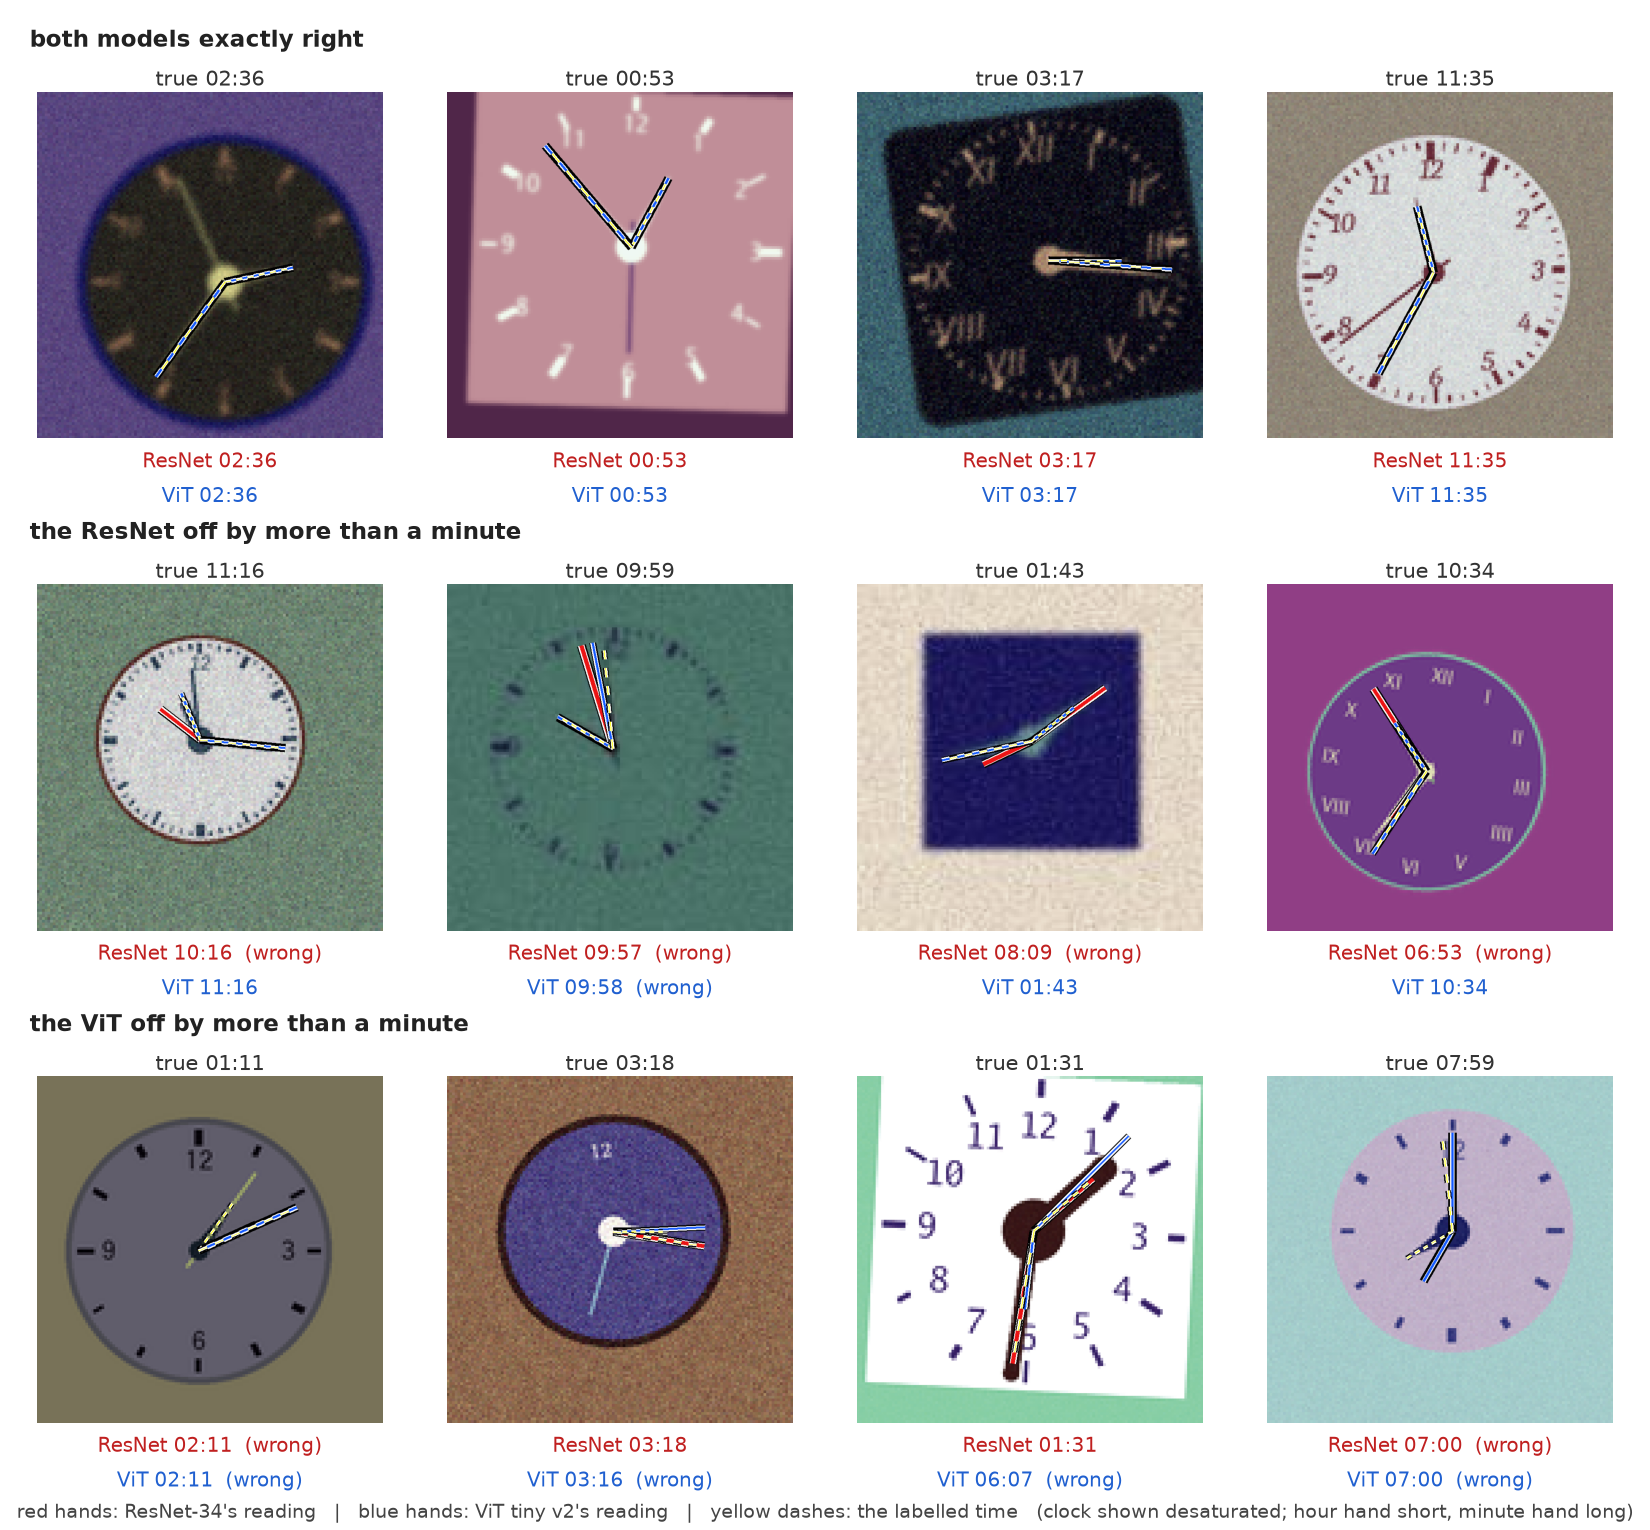
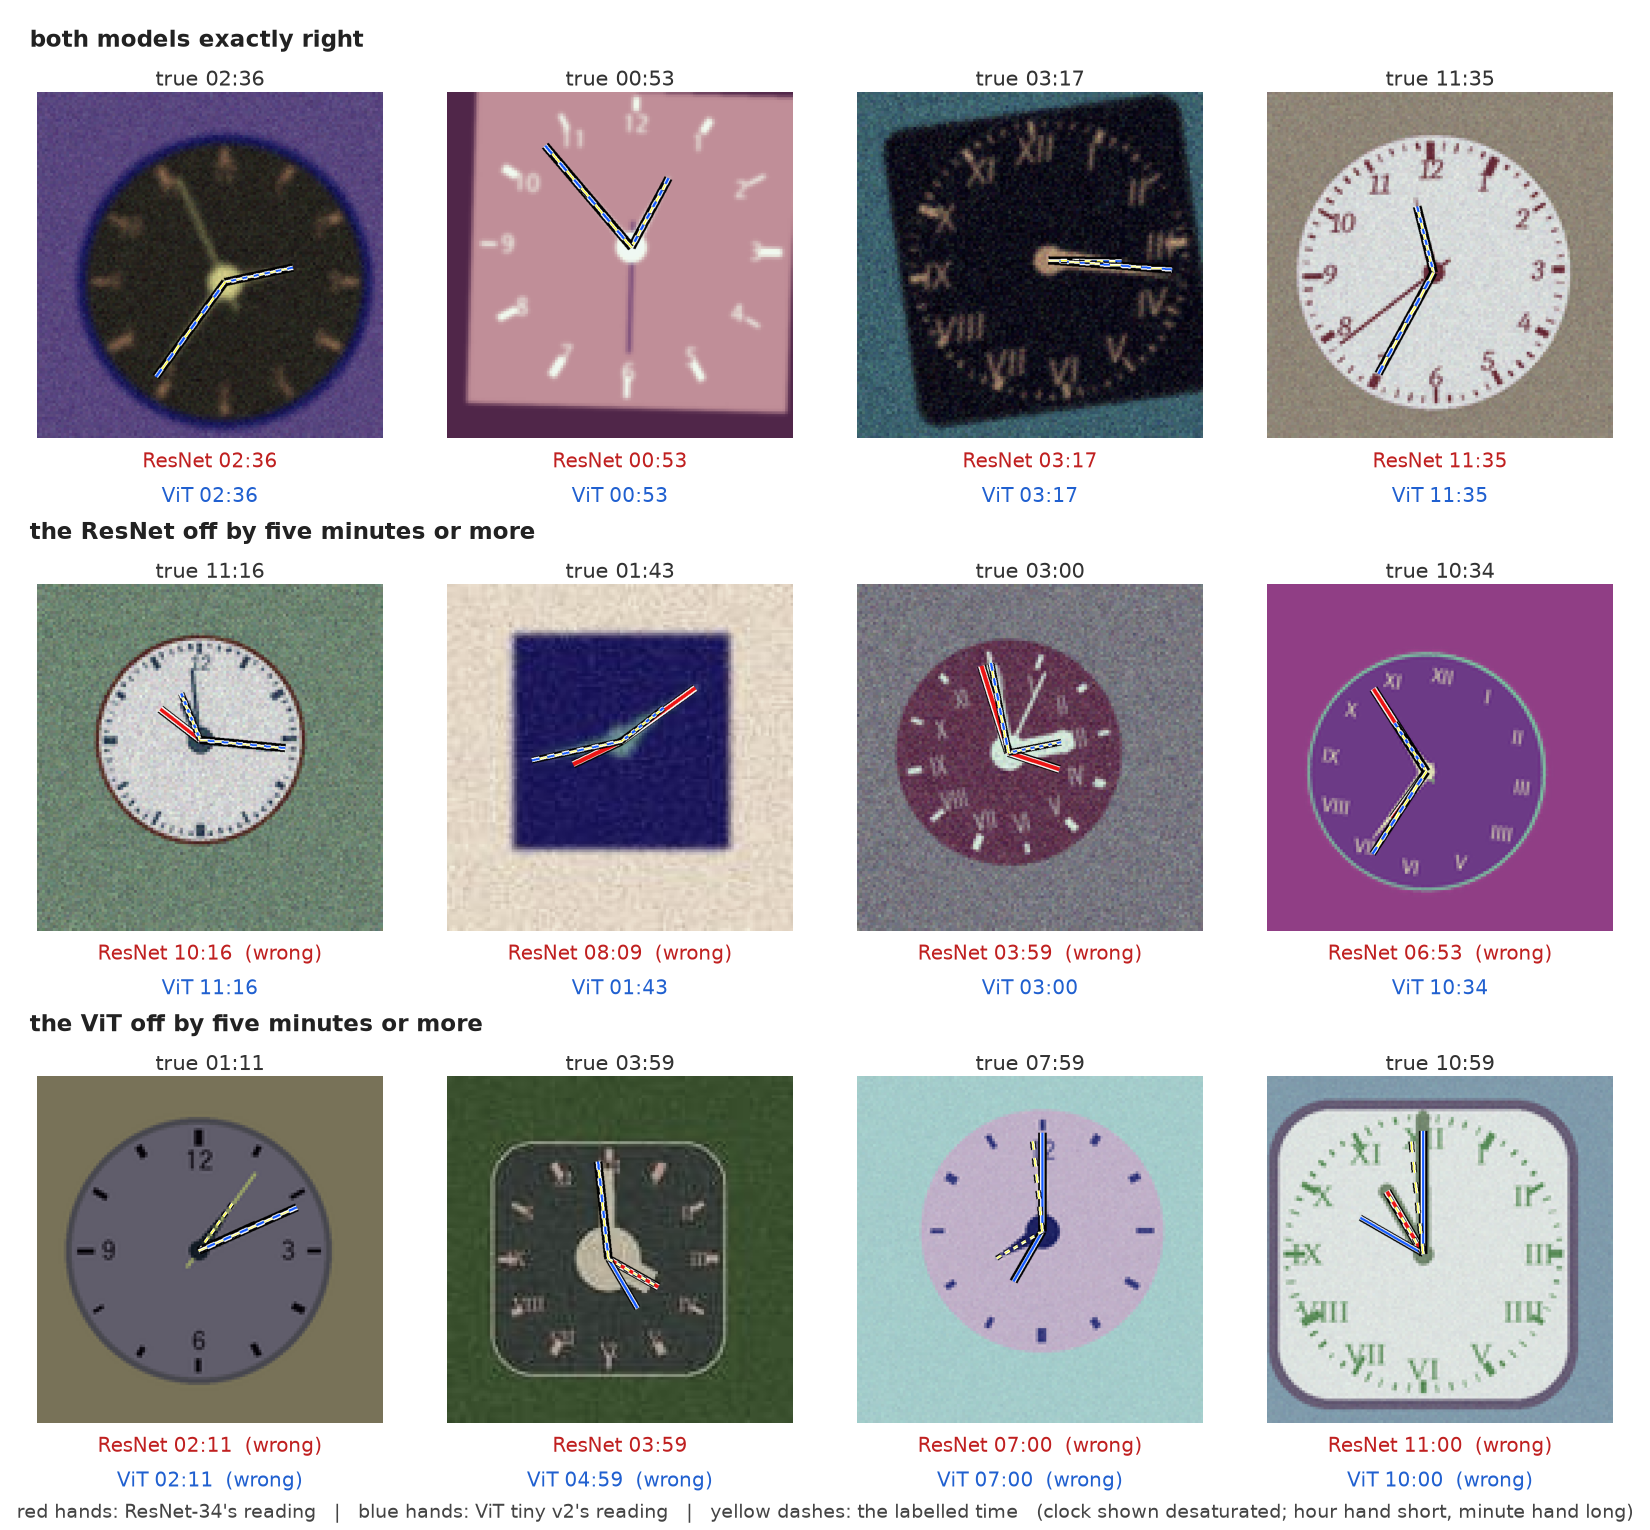
Part 3: wrong panels show misses of five minutes or more

Changed region(s): [[0.2473, 0.6758, 0.9891, 0.9523], [0.1545, 0.3379, 0.7418, 0.6451], [0.1236, 0.6451, 0.2782, 0.6758]]

diff --git a/_posts/2026-09-15-clocks-part-3-evaluation.md b/_posts/2026-09-15-clocks-part-3-evaluation.md
@@ -52,18 +52,19 @@ time in ten, and nearly all of those are within one minute. Counting the
 hour and minute together as one time on a 12-hour dial, so that 3:59 read
 as 4:00 is one minute off rather than an hour and a minute:
 
-| held-out fonts, 10,000 clocks | exactly right | one minute off | more than a minute off |
-|---|---|---|---|
-| cnn_r34 | 8,938 | 1,035 | 27 |
-| vit_tiny_v2 (86 ep) | 8,986 | 1,002 | 12 |
+| held-out fonts, 10,000 clocks | exactly right | one minute off | two to four minutes off | five minutes or more off |
+|---|---|---|---|---|
+| cnn_r34 | 8,938 | 1,035 | 10 | 17 |
+| vit_tiny_v2 (86 ep) | 8,986 | 1,002 | 3 | 9 |
 
 That last column is the one to keep in mind. A one-minute miss on a hand
 that is most of the way to the next mark is a call a person would make
-too, and Part 3 shows below that it's the renderer's doing. So the panels
+too, and this post shows below that it's the renderer's doing; a two- or
+three-minute miss on a blurred face is not much different. So the panels
 in this post that show the models getting it *wrong* show only the last
-column: the 27 and the 12 clocks in ten thousand where a model was off by
-more than a minute. Those are the real mistakes, and they're rare enough
-to look at one by one.
+column: the 17 and the 9 clocks in ten thousand where a model was off by
+five minutes or more. Those are the unmistakable mistakes, and they're
+rare enough to look at one by one.
 
 ## What the predictions look like
 
@@ -74,7 +75,7 @@ white halo so it shows on any background, and the labelled time as thin
 yellow dashes on top. The clock itself is shown at a third of its colour
 saturation so the hands stand out from it. The first row is clocks both
 models read exactly; the second and third are clocks where the ResNet, or
-the ViT, was off by more than a minute. Where all three coincide, the model
+the ViT, was off by five minutes or more. Where all three coincide, the model
 read the clock. The clocks are from the held-out set, so every typeface
 here is one the models never saw. The geometry for the overlay comes from
 re-rendering each test image from its seed, which reproduces it pixel for
@@ -85,7 +86,7 @@ the models saw, only paler ([Figure 3.1](#fig-3-1)).
 
 ![Predicted hands from both models, ResNet in red and ViT in blue, drawn over twelve held-out clocks in three rows: both right, one wrong, both wrong](/assets/clocks/overlay_heldout.png){: .no-invert}
 
-**Figure 3.1.** Predicted hands from both models, ResNet in red and ViT in blue, drawn over twelve held-out clocks: a row where both are exactly right, a row where the ResNet is off by more than a minute, a row where the ViT is.
+**Figure 3.1.** Predicted hands from both models, ResNet in red and ViT in blue, drawn over twelve held-out clocks: a row where both are exactly right, a row where the ResNet is off by five minutes or more, a row where the ViT is.
 {: .figcap #fig-3-1}
 
 In the top row the three sets of hands are on top of each other. In the
@@ -96,33 +97,33 @@ next to a numeral and the model picks the wrong side. The other is the
 hands swapped: 1:43 read as 8:09, 10:34 read as 6:53, 1:31 read as 6:07,
 on faces where the two hands are nearly the same length. Neither kind is
 a resolution problem. Both are the kind of mistake a person makes at a
-glance, and both are rare: those rows are drawn from 27 clocks in ten
-thousand for the ResNet and 12 for the ViT.
+glance, and both are rare: those rows are drawn from 17 clocks in ten
+thousand for the ResNet and 9 for the ViT.
 
 Another way to look at the same thing: take what each model answered and
 draw it as a clean clock, next to the clock it was given. Red hands are
 the ResNet's reading, blue hands the ViT's. If the model read the clock,
 the drawn clock shows the same time as the unseen one. The last four rows
-are real misses: the drawn clock shows an hour hand on the wrong numeral,
-or the two hands the wrong way round ([Figure 3.2](#fig-3-2)).
+are misses of five minutes or more: the drawn clock shows an hour hand on
+the wrong numeral, or the two hands the wrong way round ([Figure 3.2](#fig-3-2)).
 
 ![Six held-out clocks, each beside a clean clock drawn from the ResNet's reading in red and one from the ViT's reading in blue](/assets/clocks/readback_heldout.png){: .no-invert}
 
-**Figure 3.2.** Six held-out clocks, each beside a clean clock drawn from the ResNet's reading in red and one from the ViT's reading in blue. Rows 1 and 2 both right; rows 3 and 4 the ResNet off by more than a minute; rows 5 and 6 the ViT.
+**Figure 3.2.** Six held-out clocks, each beside a clean clock drawn from the ResNet's reading in red and one from the ViT's reading in blue. Rows 1 and 2 both right; rows 3 and 4 the ResNet off by five minutes or more; rows 5 and 6 the ViT.
 {: .figcap #fig-3-2}
 
-Eight more clocks each model read exactly, and eight of its misses of more
-than a minute, from the held-out set. The wrong readings are in red ([Figures 3.3](#fig-3-3)
+Eight more clocks each model read exactly, and eight of its misses of five
+minutes or more, from the held-out set. The wrong readings are in red ([Figures 3.3](#fig-3-3)
 and [3.4](#fig-3-4)).
 
 ![ResNet-34 predictions on held-out fonts: eight right, eight wrong](/assets/clocks/preds_cnn_r34.png){: .no-invert}
 
-**Figure 3.3.** ResNet-34 predictions on held-out fonts: eight read exactly, and eight of its misses of more than a minute.
+**Figure 3.3.** ResNet-34 predictions on held-out fonts: eight read exactly, and eight of its misses of five minutes or more.
 {: .figcap #fig-3-3}
 
 ![ViT tiny v2 predictions on held-out fonts: eight right, eight wrong](/assets/clocks/preds_vit_tiny_v2.png){: .no-invert}
 
-**Figure 3.4.** ViT tiny v2 predictions on held-out fonts: eight read exactly, and eight of its misses of more than a minute.
+**Figure 3.4.** ViT tiny v2 predictions on held-out fonts: eight read exactly, and eight of its misses of five minutes or more.
 {: .figcap #fig-3-4}
 
 And the same on the test set rendered with training-pool fonts, which is
@@ -130,12 +131,12 @@ the distribution the models were trained on ([Figures 3.5](#fig-3-5) and [3.6](#
 
 ![ResNet-34 predictions on the seen-font test set: eight right, eight wrong](/assets/clocks/preds_test_cnn_r34.png){: .no-invert}
 
-**Figure 3.5.** ResNet-34 predictions on the seen-font test set: eight read exactly, and eight of its misses of more than a minute.
+**Figure 3.5.** ResNet-34 predictions on the seen-font test set: eight read exactly, and eight of its misses of five minutes or more.
 {: .figcap #fig-3-5}
 
 ![ViT tiny v2 predictions on the seen-font test set: eight right, eight wrong](/assets/clocks/preds_test_vit_tiny_v2.png){: .no-invert}
 
-**Figure 3.6.** ViT tiny v2 predictions on the seen-font test set: eight read exactly, and eight of its misses of more than a minute.
+**Figure 3.6.** ViT tiny v2 predictions on the seen-font test set: eight read exactly, and eight of its misses of five minutes or more.
 {: .figcap #fig-3-6}
 
 Look at the wrong rows and notice what is *not* there: nothing has been
@@ -288,16 +289,16 @@ ViT alone on 5.9%. Either one right: 95.3% ([Figure 3.11](#fig-3-11)).
 
 ![Held-out clocks where both models are right, only the ResNet is right, only the ViT is right, and both are wrong](/assets/clocks/compare_heldout.png){: .no-invert}
 
-**Figure 3.11.** Held-out clocks where both models are exactly right, where only the ResNet is off by more than a minute, where only the ViT is, and the three where both are.
+**Figure 3.11.** Held-out clocks where both models are exactly right, where only the ResNet is off by five minutes or more, where only the ViT is, and the three where both are.
 {: .figcap #fig-3-11}
 
 Those percentages count one-minute misses as wrong, and on that count the
 two models miss *different* clocks 6% of the time each, which on a task
 where the labels are ambiguous a quarter of the time says their errors
 are mostly coin flips at the boundary rather than systematic blind spots.
-The figure uses the stricter rule, more than a minute off, and there the
-numbers are small: 24 clocks where only the ResNet was off by more than a
-minute, 9 where only the ViT was, and 3 where both were. The three shared
+The figure uses the stricter rule, five minutes or more off, and there
+the numbers are small: 14 clocks where only the ResNet was off by that
+much, 6 where only the ViT was, and 3 where both were. The three shared
 misses are a swap and two hour-on-the-numeral reads. Averaging the two
 models would gain a few points on the one-minute misses, and wouldn't mean
 anything.
